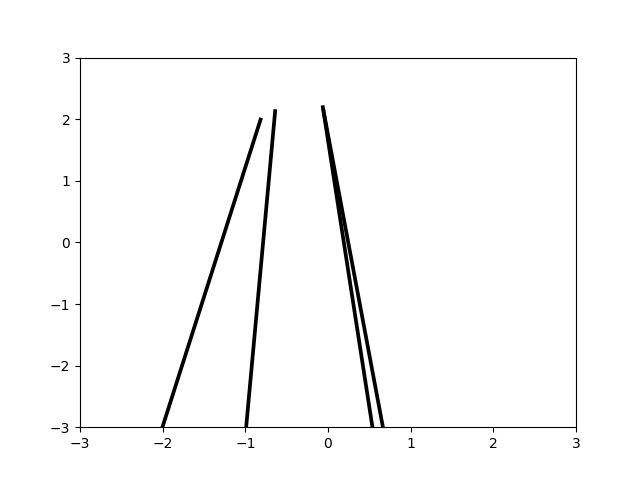
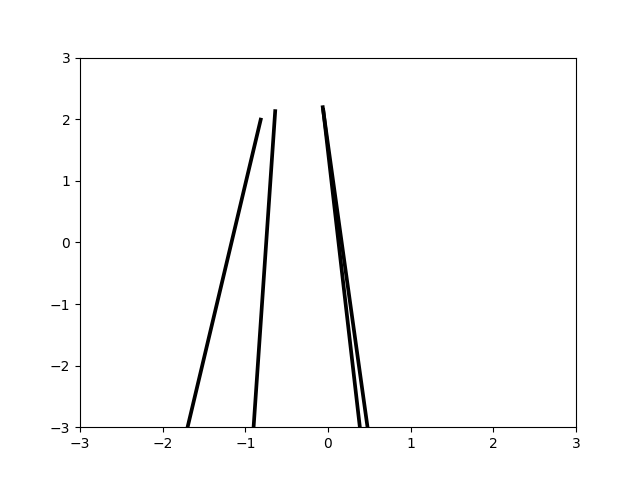
Added color

Changed region(s): [[0.25, 0.25, 0.4375, 0.9062], [0.5, 0.25, 0.625, 0.9062]]

diff --git a/word2blank/ongoing/word2vec-symplectic/visualizer/visualizer.py b/word2blank/ongoing/word2vec-symplectic/visualizer/visualizer.py
@@ -22,10 +22,10 @@ def get_embs(emb, wordlist):
     return mat
 
 def plot(mat, fname):
-    U, V, X, Y = zip(*mat)
+    X, Y, U, V= zip(*mat)
     plt.figure()
     ax = plt.gca()
-    ax.quiver(U, V, X, Y, angles='xy', scale_units='xy', scale=0.1)
+    ax.quiver(X, Y, U, V, angles='uv', scale_units='xy', scale=0.1, edgecolor=['red', 'blue', 'green', 'yellow'])
     ax.set_xlim([-3, 3])
     ax.set_ylim([-3, 3])
     plt.draw()
